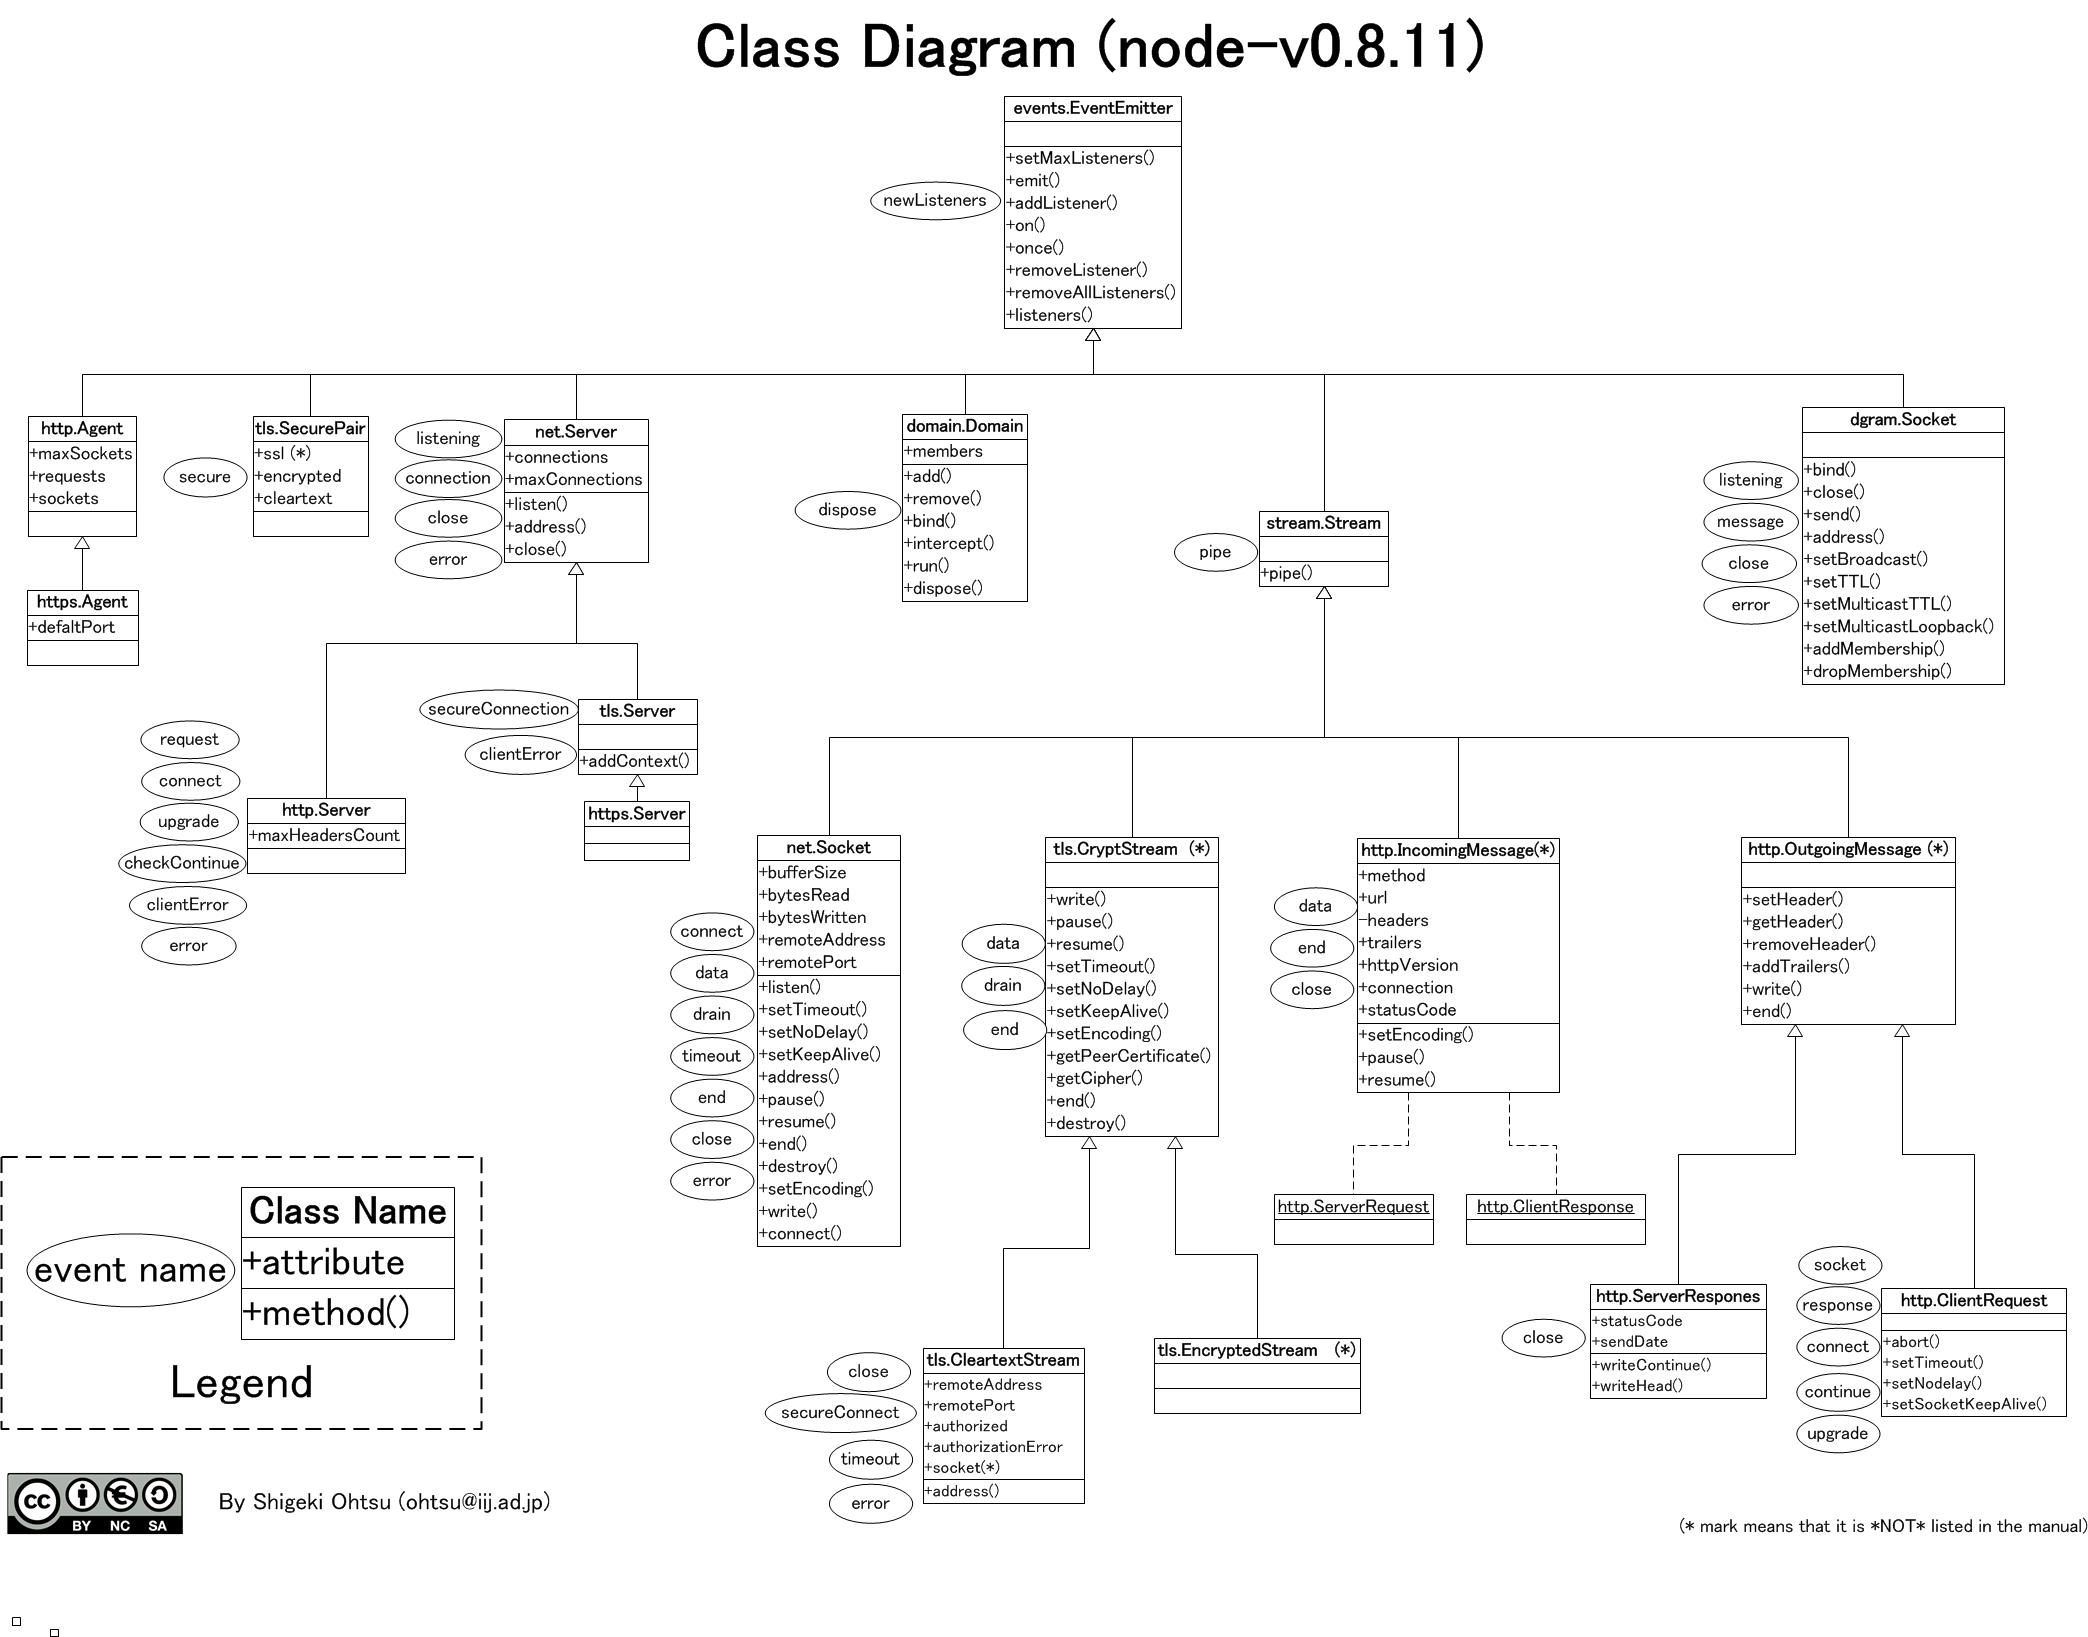
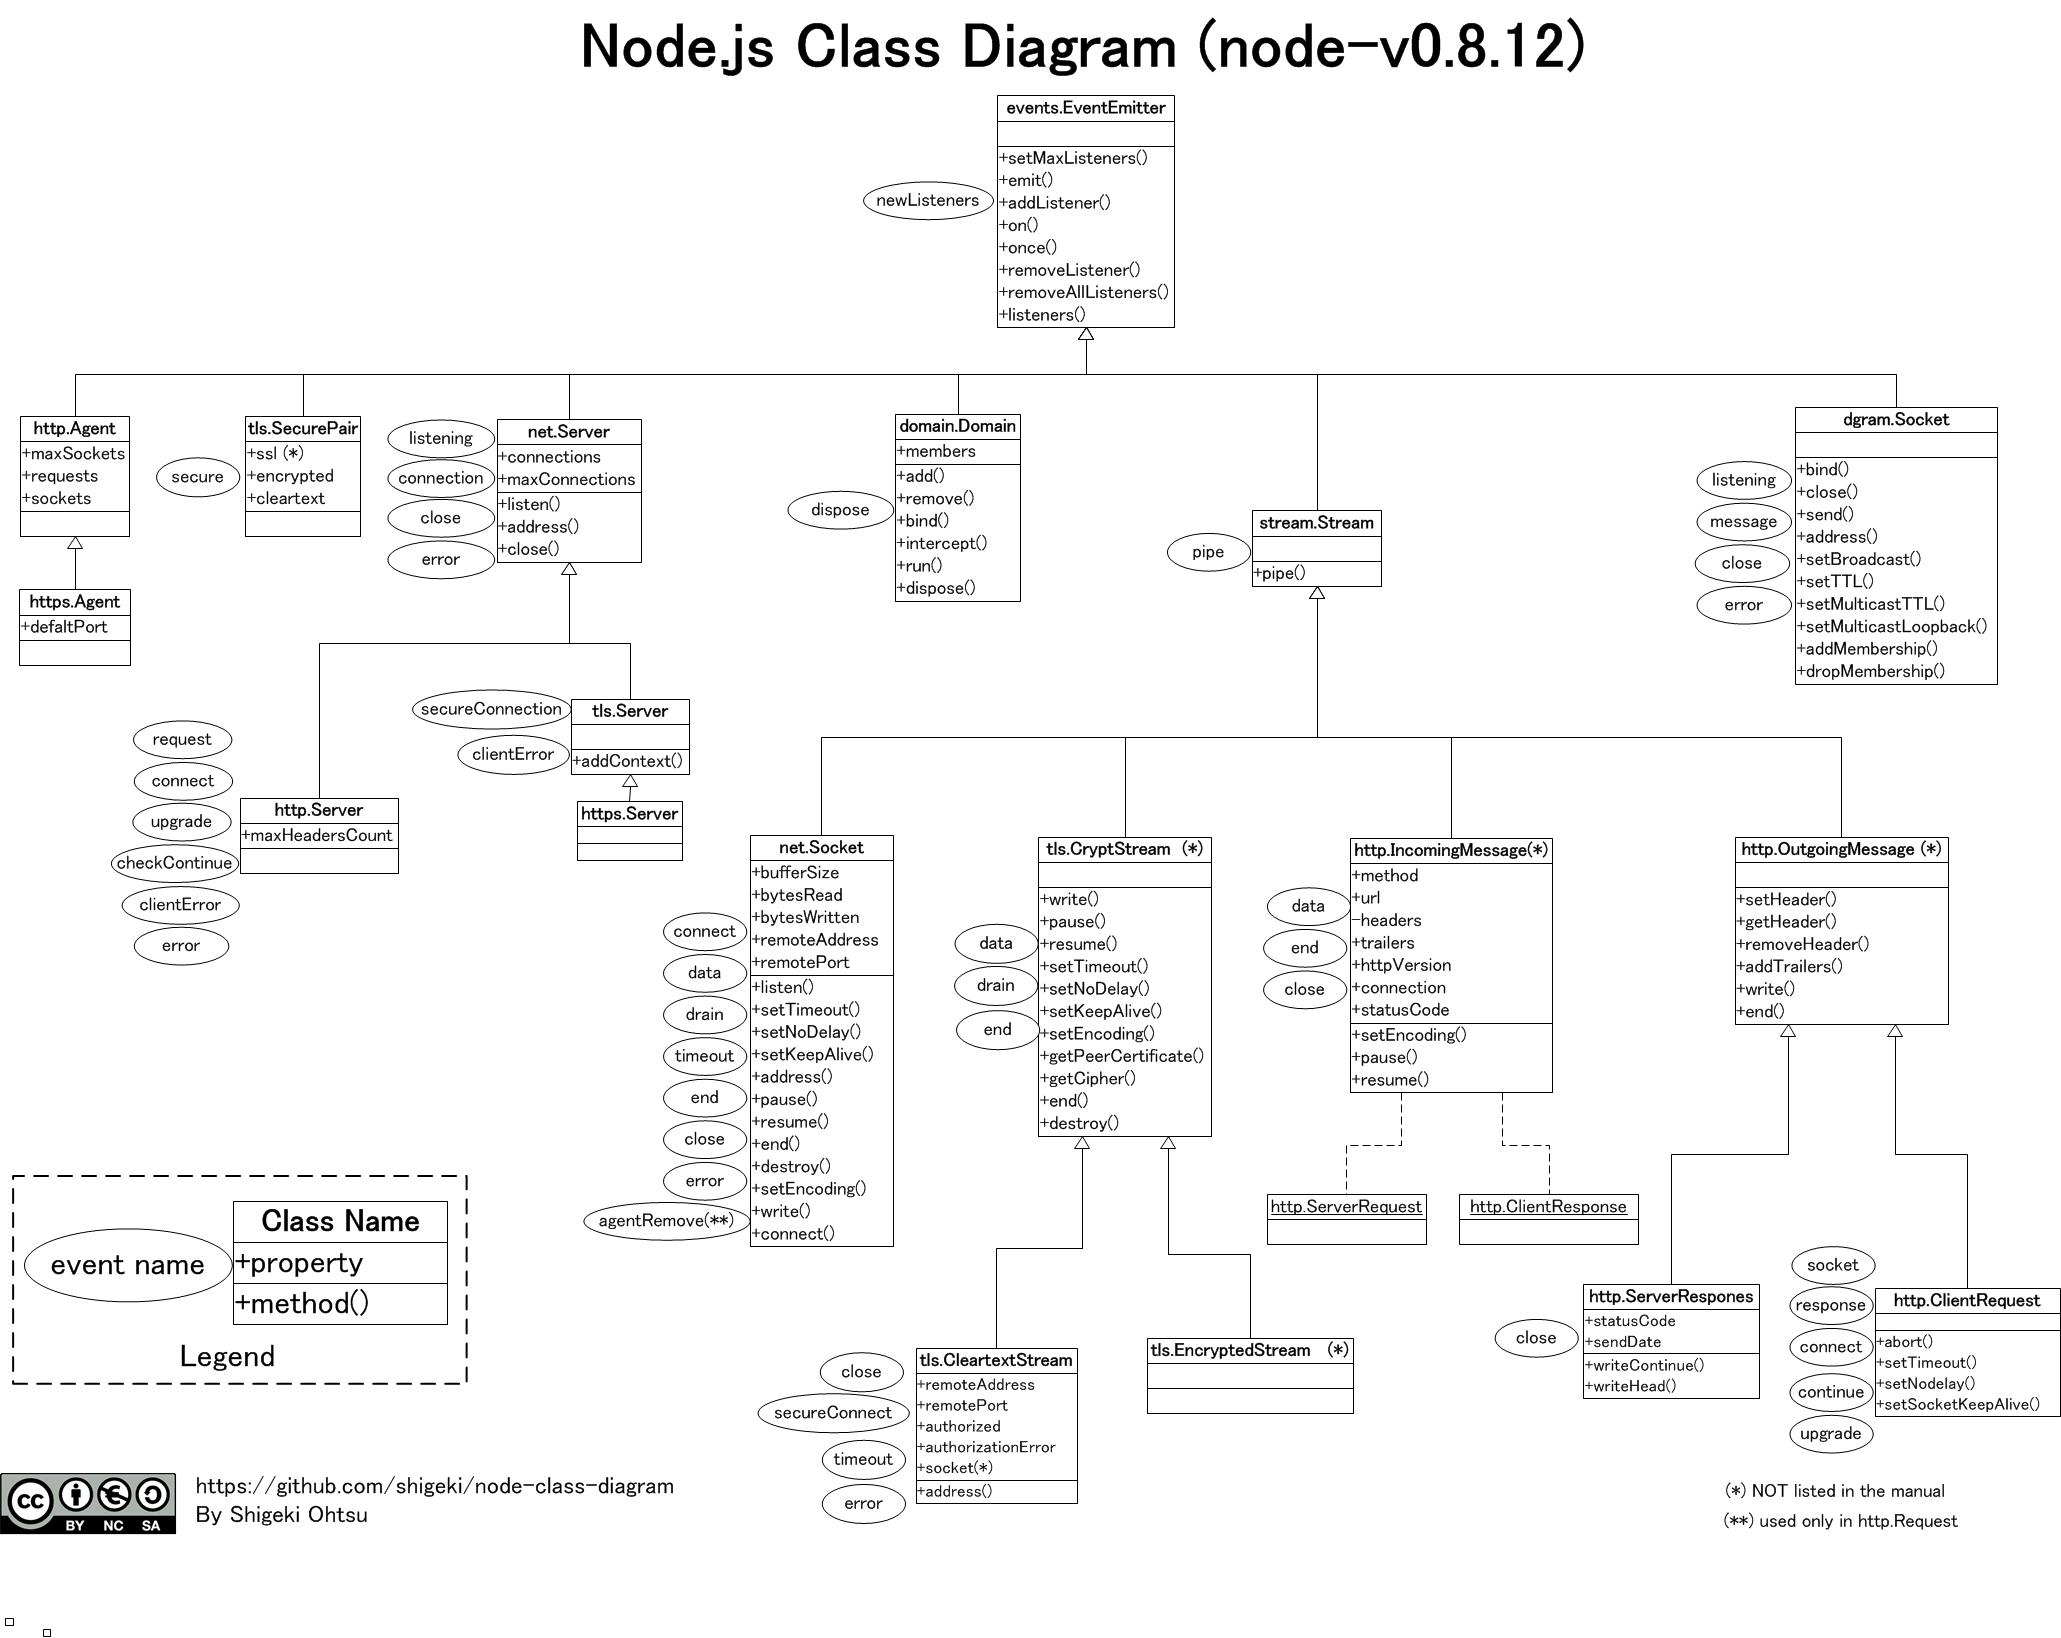
update v0.8.12

diff --git a/README.md b/README.md
@@ -4,6 +4,7 @@ node-class-diagram
 Class Diagram of Node.js
 
 This shows the class structure of Node.js at a glance.
+This covers most of classes in the node manual but has a few exceptions.
 
 Feedbacks are welcome.
 
